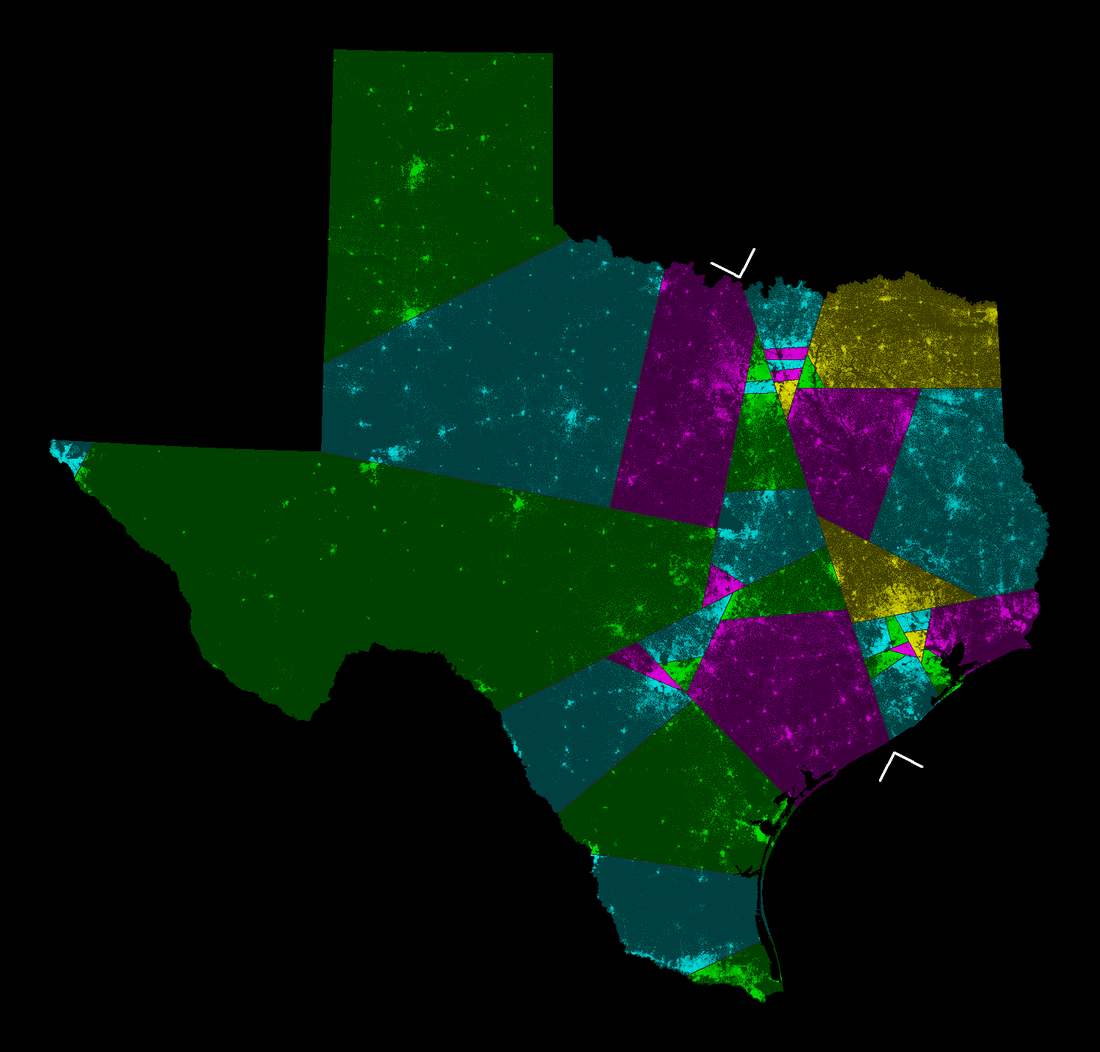
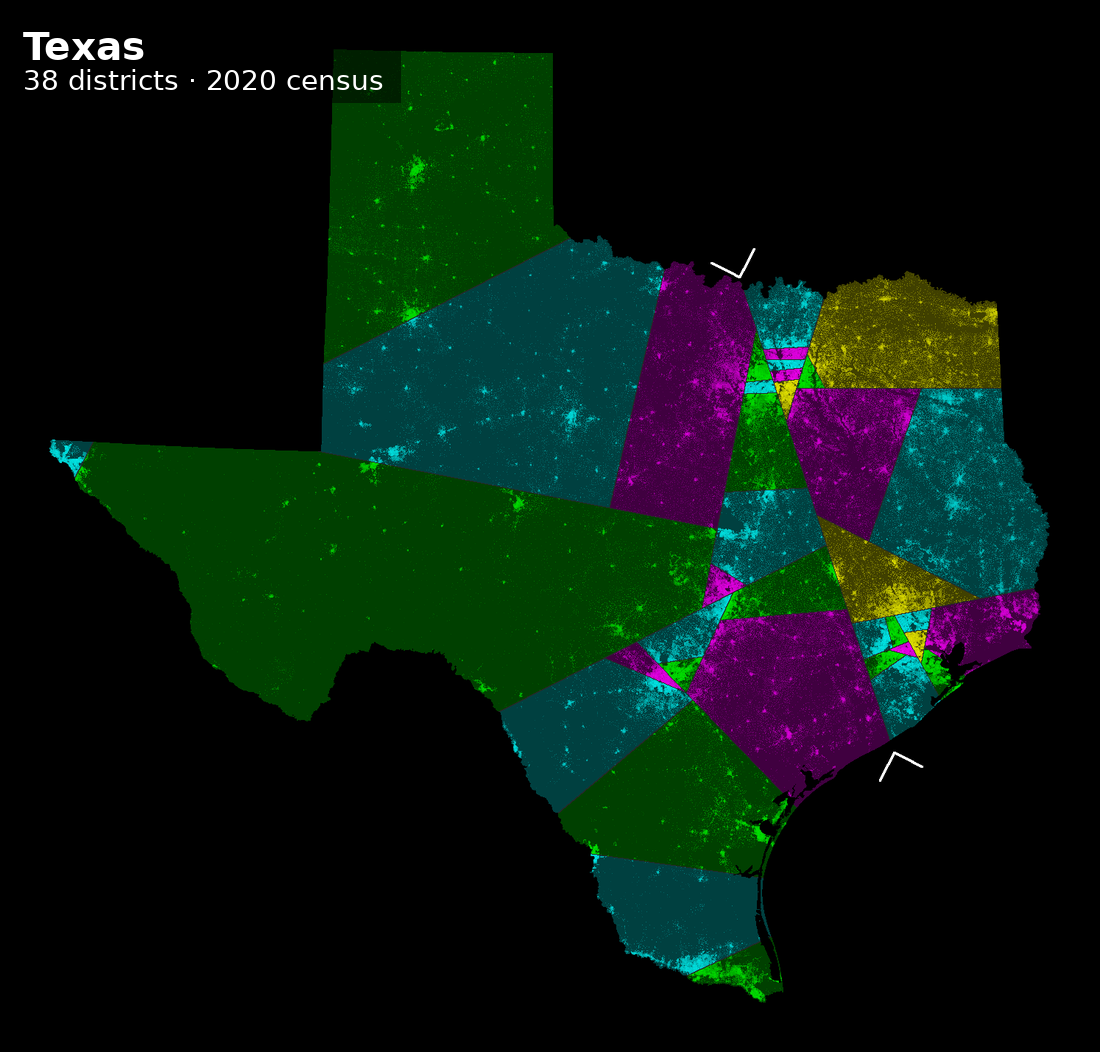
Caption the site maps, and show the reproduction against CRV
A map with no caption is a pretty picture. Each image on the site now says
what region it is, how many districts, and which census -- and nothing else.
The population model and the cut-length metric change the map but mean
nothing to a viewer who has not read the code, so they stay off.

shared/tools/label_map.py does the drawing, animations included. Placement is
a corner with a soft dark pad; putting the caption in the largest empty space
inside the outline is the better answer and stays on the roadmap.

Adds the comparison that justifies the whole exercise: CRV's published 2009
map of Colorado beside the same state rebuilt from the raw 2000 census blocks,
agreeing on 97.2% of land area. Colorado because it is the honest best case
and the page says why -- landlocked and near-rectangular, so no coastline is
there to expose the one real difference between the implementations, which is
that CRV measure a cut's length as its span across water where this code
measured only the land crossed. Of thirteen states checked the rest run 75-89%,
and the page explains that a single different cut near the root moves
everything below it.

CRV's image is included unmodified at its native resolution and credited;
their terms permit reuse with attribution, which NOTICE carries.

Changed region(s): [[0.1855, 0.0304, 0.3709, 0.1217], [0.0309, 0.0304, 0.1545, 0.0913]]

diff --git a/docs/index.html b/docs/index.html
@@ -61,15 +61,38 @@ per run. Brightness is population density, so the cities show up as the bright s
   </figure>
 </div>
 
+<h2>Does it reproduce the original?</h2>
+<p>The Center for Range Voting published splitline maps from the 2000 census in 2009.
+Rebuilding them from scratch is the test of whether any of this is right — same census,
+same seat counts, independent code:</p>
+<div class="pair">
+  <figure>
+    <img src="img/co-2000-crv.png" alt="Center for Range Voting's 2009 splitline map of Colorado">
+    <figcaption>Center for Range Voting, 2009.</figcaption>
+  </figure>
+  <figure>
+    <img src="img/co-2000-ours.png" alt="This project's splitline map of Colorado, 2000 census">
+    <figcaption>This project, rebuilt from the raw 2000 census blocks.
+    <b>97.2%</b> of the state's land area falls in the same district in both.</figcaption>
+  </figure>
+</div>
+<p>Colorado is the cleanest comparison because it is landlocked and nearly rectangular.
+Along coastlines the two implementations diverge more, because they turn out to measure the
+length of a cut differently — theirs counts the straight-line span across water, mine measured
+only the land it crosses. Since the algorithm always picks the <i>shortest</i> cut, that one
+definition changes which cut wins, and a single different cut near the root changes everything
+below it.</p>
+
 <h2>A few states</h2>
 <div class="pair">
   <figure>
     <img src="img/tx-2020.png" alt="Texas divided into 38 districts">
-    <figcaption>Texas, 38 districts.</figcaption>
+    <figcaption>Texas — mid-decade redrawn in 2025, and in court over it since.</figcaption>
   </figure>
   <figure>
     <img src="img/ca-2020.png" alt="California divided into 52 districts">
-    <figcaption>California, 52 districts.</figcaption>
+    <figcaption>California — half its districts sit in the Los Angeles and
+    Bay Area knots.</figcaption>
   </figure>
 </div>
 

diff --git a/shared/tools/label_map.py b/shared/tools/label_map.py
@@ -1,0 +1,94 @@
+#!/usr/bin/env python3
+"""Caption a rendered map with what it is.
+
+Says the region, how many districts, and which census -- the things a viewer
+needs to read the picture. Not the population model or the cut-length metric:
+those change the map but mean nothing to anyone who has not read the code, and
+a caption crowded with parameters is worse than no caption.
+
+Placement is deliberately dumb: a corner, with a soft dark pad behind the text
+so it stays readable over both the near-black empty areas and the bright city
+speckle. Placing it in the largest empty space inside the state outline is the
+better answer and is on the roadmap; it is not worth blocking a caption on.
+
+Animated GIFs are captioned frame by frame and re-encoded.
+"""
+
+import argparse
+import sys
+
+from PIL import Image, ImageDraw, ImageFont, ImageSequence
+
+FONT = "/usr/share/fonts/truetype/dejavu/DejaVuSans-Bold.ttf"
+FONT_LIGHT = "/usr/share/fonts/truetype/dejavu/DejaVuSans.ttf"
+
+
+def draw_caption(im, title, sub=None, corner="tl", scale=0.034, pad_frac=0.022):
+    """Draw title (and optional subtitle) onto a copy of `im`."""
+    im = im.convert("RGB")
+    w, h = im.size
+    size = max(13, int(h * scale))
+    try:
+        f1 = ImageFont.truetype(FONT, size)
+        f2 = ImageFont.truetype(FONT_LIGHT, int(size * 0.72))
+    except OSError:
+        f1 = f2 = ImageFont.load_default()
+
+    d = ImageDraw.Draw(im, "RGBA")
+    pad = int(h * pad_frac)
+    lines = [(title, f1)] + ([(sub, f2)] if sub else [])
+
+    widths, heights = [], []
+    for t, f in lines:
+        box = d.textbbox((0, 0), t, font=f)
+        widths.append(box[2] - box[0])
+        heights.append(box[3] - box[1])
+    tw = max(widths)
+    th = sum(heights) + (int(size * 0.35) if sub else 0)
+
+    x = pad if corner in ("tl", "bl") else w - tw - pad
+    y = pad if corner in ("tl", "tr") else h - th - pad * 2
+
+    # A soft pad rather than a hard box: enough to lift the text off bright
+    # pixels without looking like a sticker.
+    m = int(size * 0.45)
+    d.rectangle([x - m, y - m, x + tw + m, y + th + m], fill=(0, 0, 0, 130))
+
+    cy = y
+    for (t, f), hh in zip(lines, heights):
+        d.text((x, cy), t, font=f, fill=(255, 255, 255, 235))
+        cy += hh + int(size * 0.35)
+    return im
+
+
+def label_file(src, dst, title, sub=None, corner="tl", scale=0.034):
+    im = Image.open(src)
+    if getattr(im, "is_animated", False):
+        frames = [draw_caption(f, title, sub, corner, scale).convert(
+                      "P", palette=Image.ADAPTIVE, colors=128)
+                  for f in ImageSequence.Iterator(im)]
+        frames[0].save(dst, save_all=True, append_images=frames[1:],
+                       duration=im.info.get("duration", 300),
+                       loop=0, optimize=True)
+        return len(frames)
+    draw_caption(im, title, sub, corner, scale).save(dst, optimize=True)
+    return 1
+
+
+def main():
+    ap = argparse.ArgumentParser(description=__doc__,
+                                 formatter_class=argparse.RawDescriptionHelpFormatter)
+    ap.add_argument("src")
+    ap.add_argument("dst")
+    ap.add_argument("--title", required=True)
+    ap.add_argument("--sub")
+    ap.add_argument("--corner", default="tl", choices=("tl", "tr", "bl", "br"))
+    ap.add_argument("--scale", type=float, default=0.034)
+    a = ap.parse_args()
+    n = label_file(a.src, a.dst, a.title, a.sub, a.corner, a.scale)
+    print(f"{a.dst}: {n} frame(s)")
+    return 0
+
+
+if __name__ == "__main__":
+    sys.exit(main())
